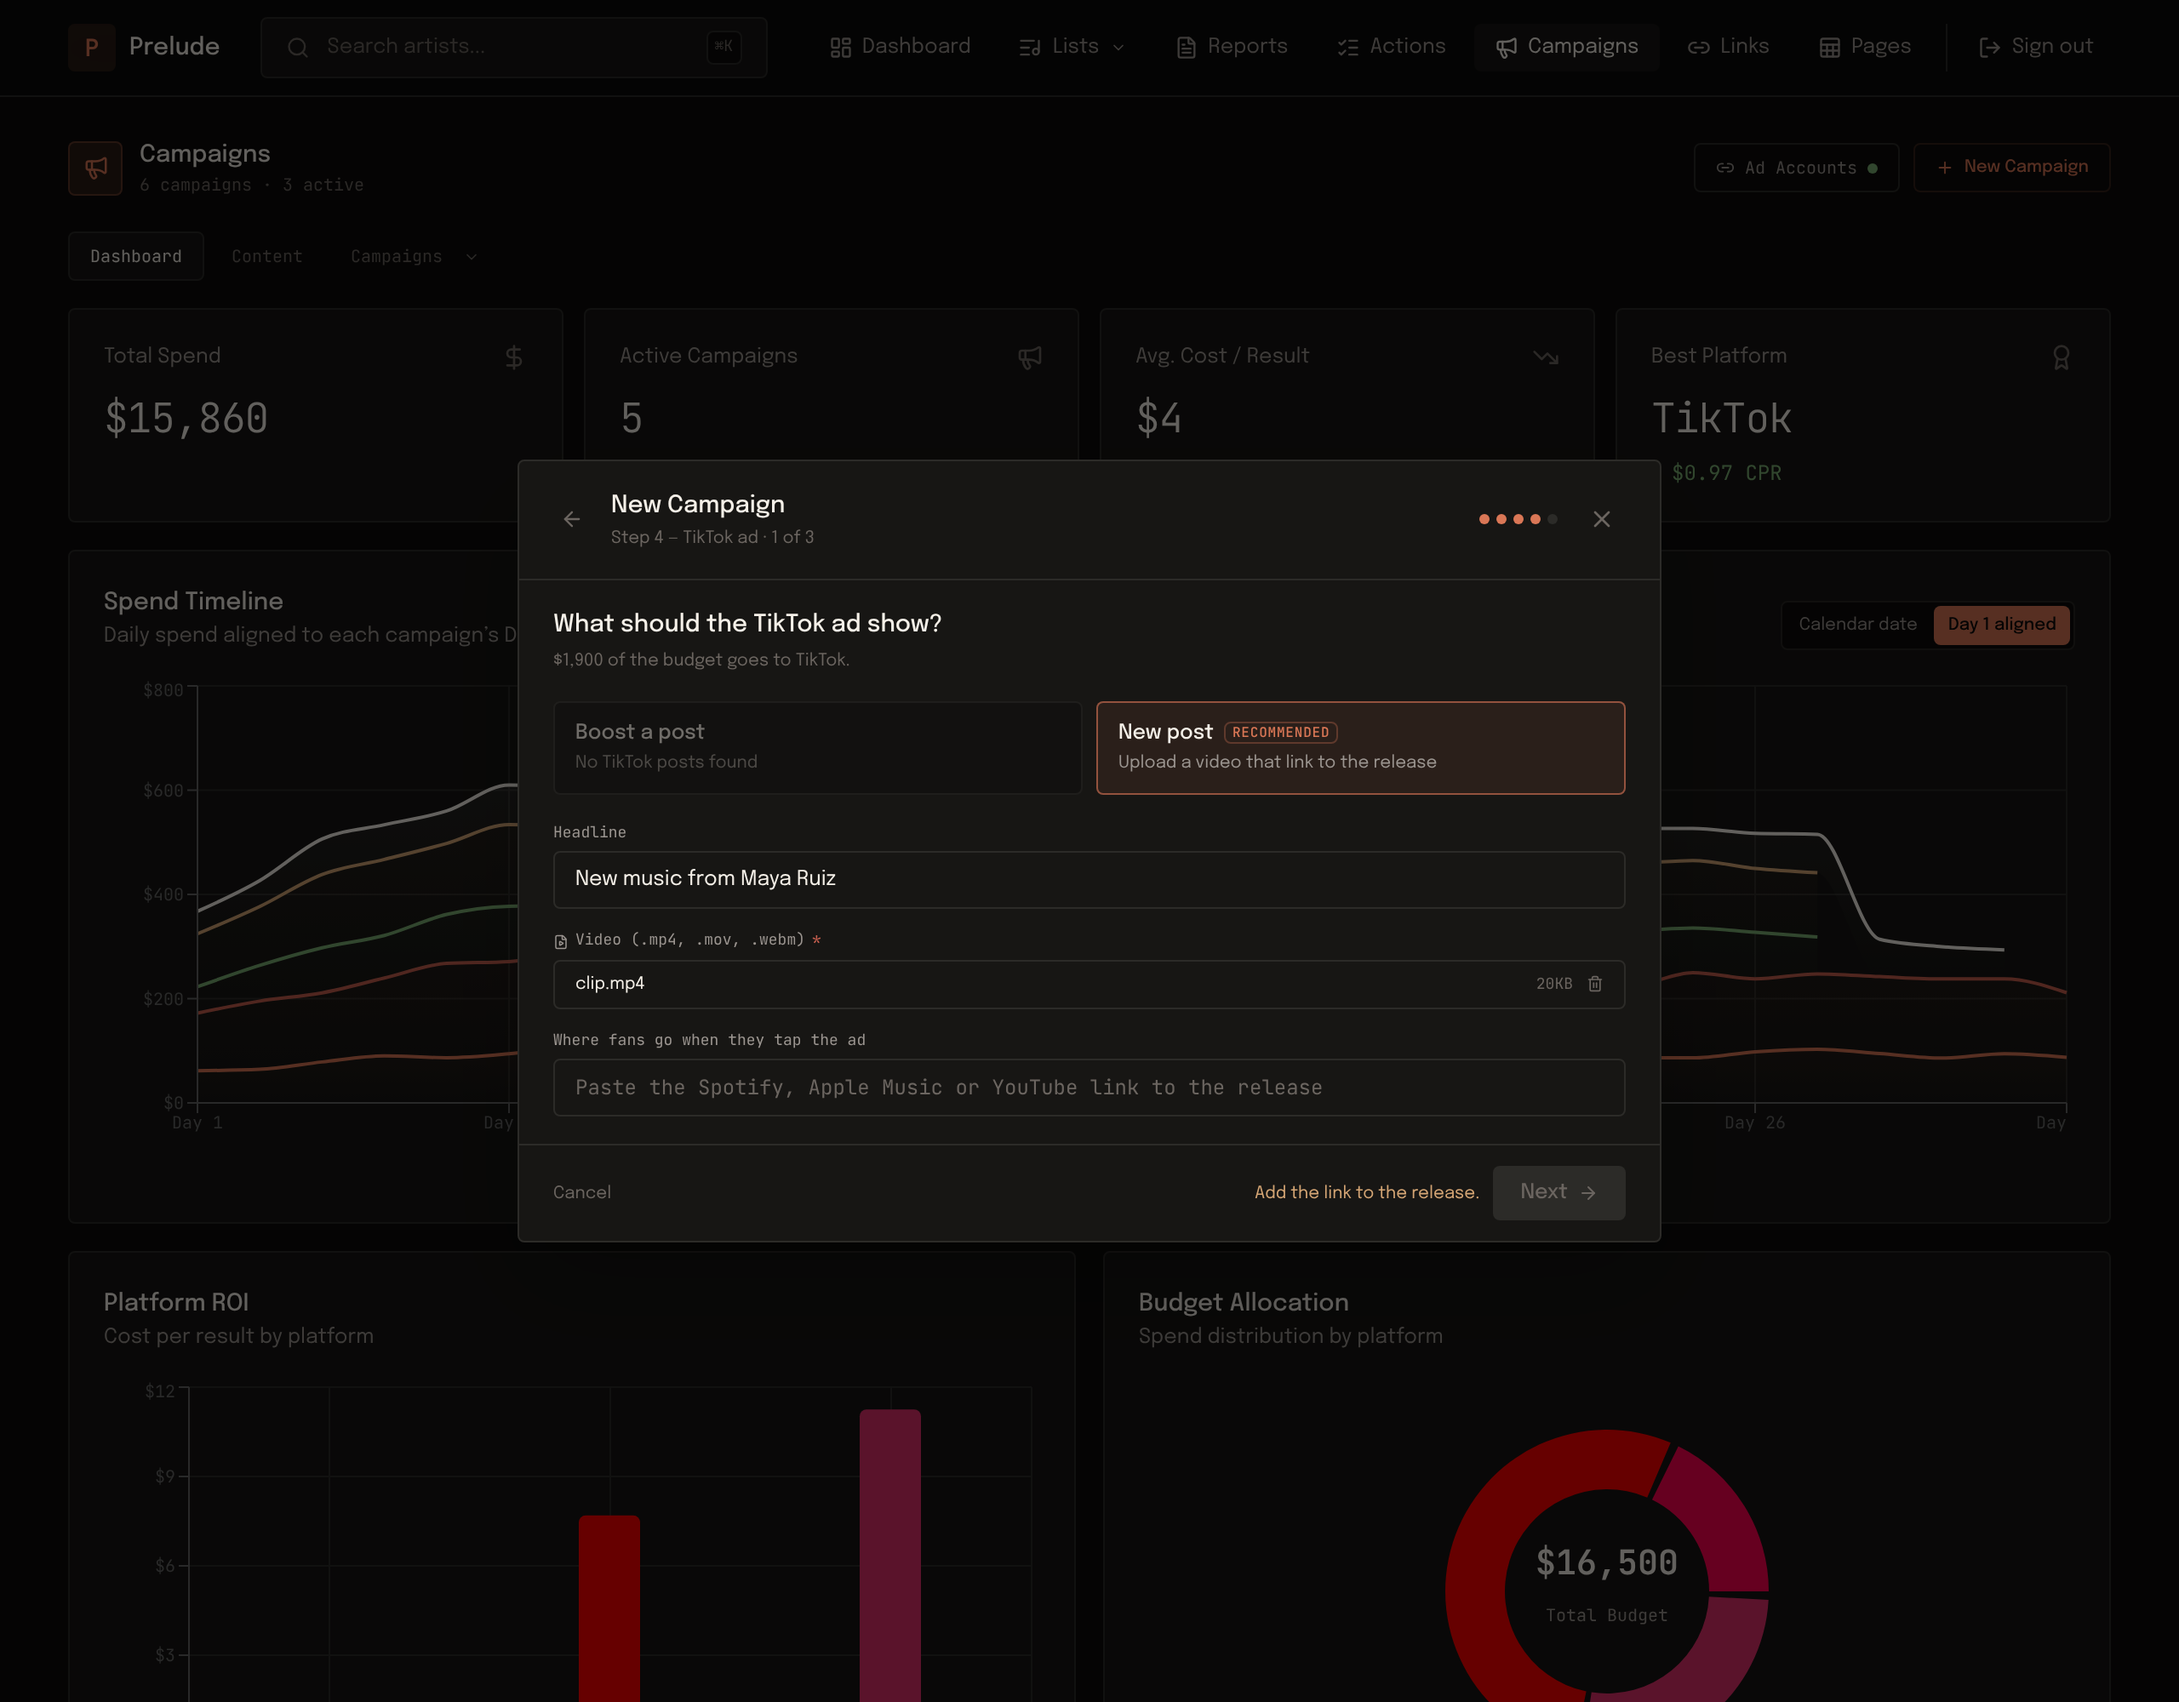
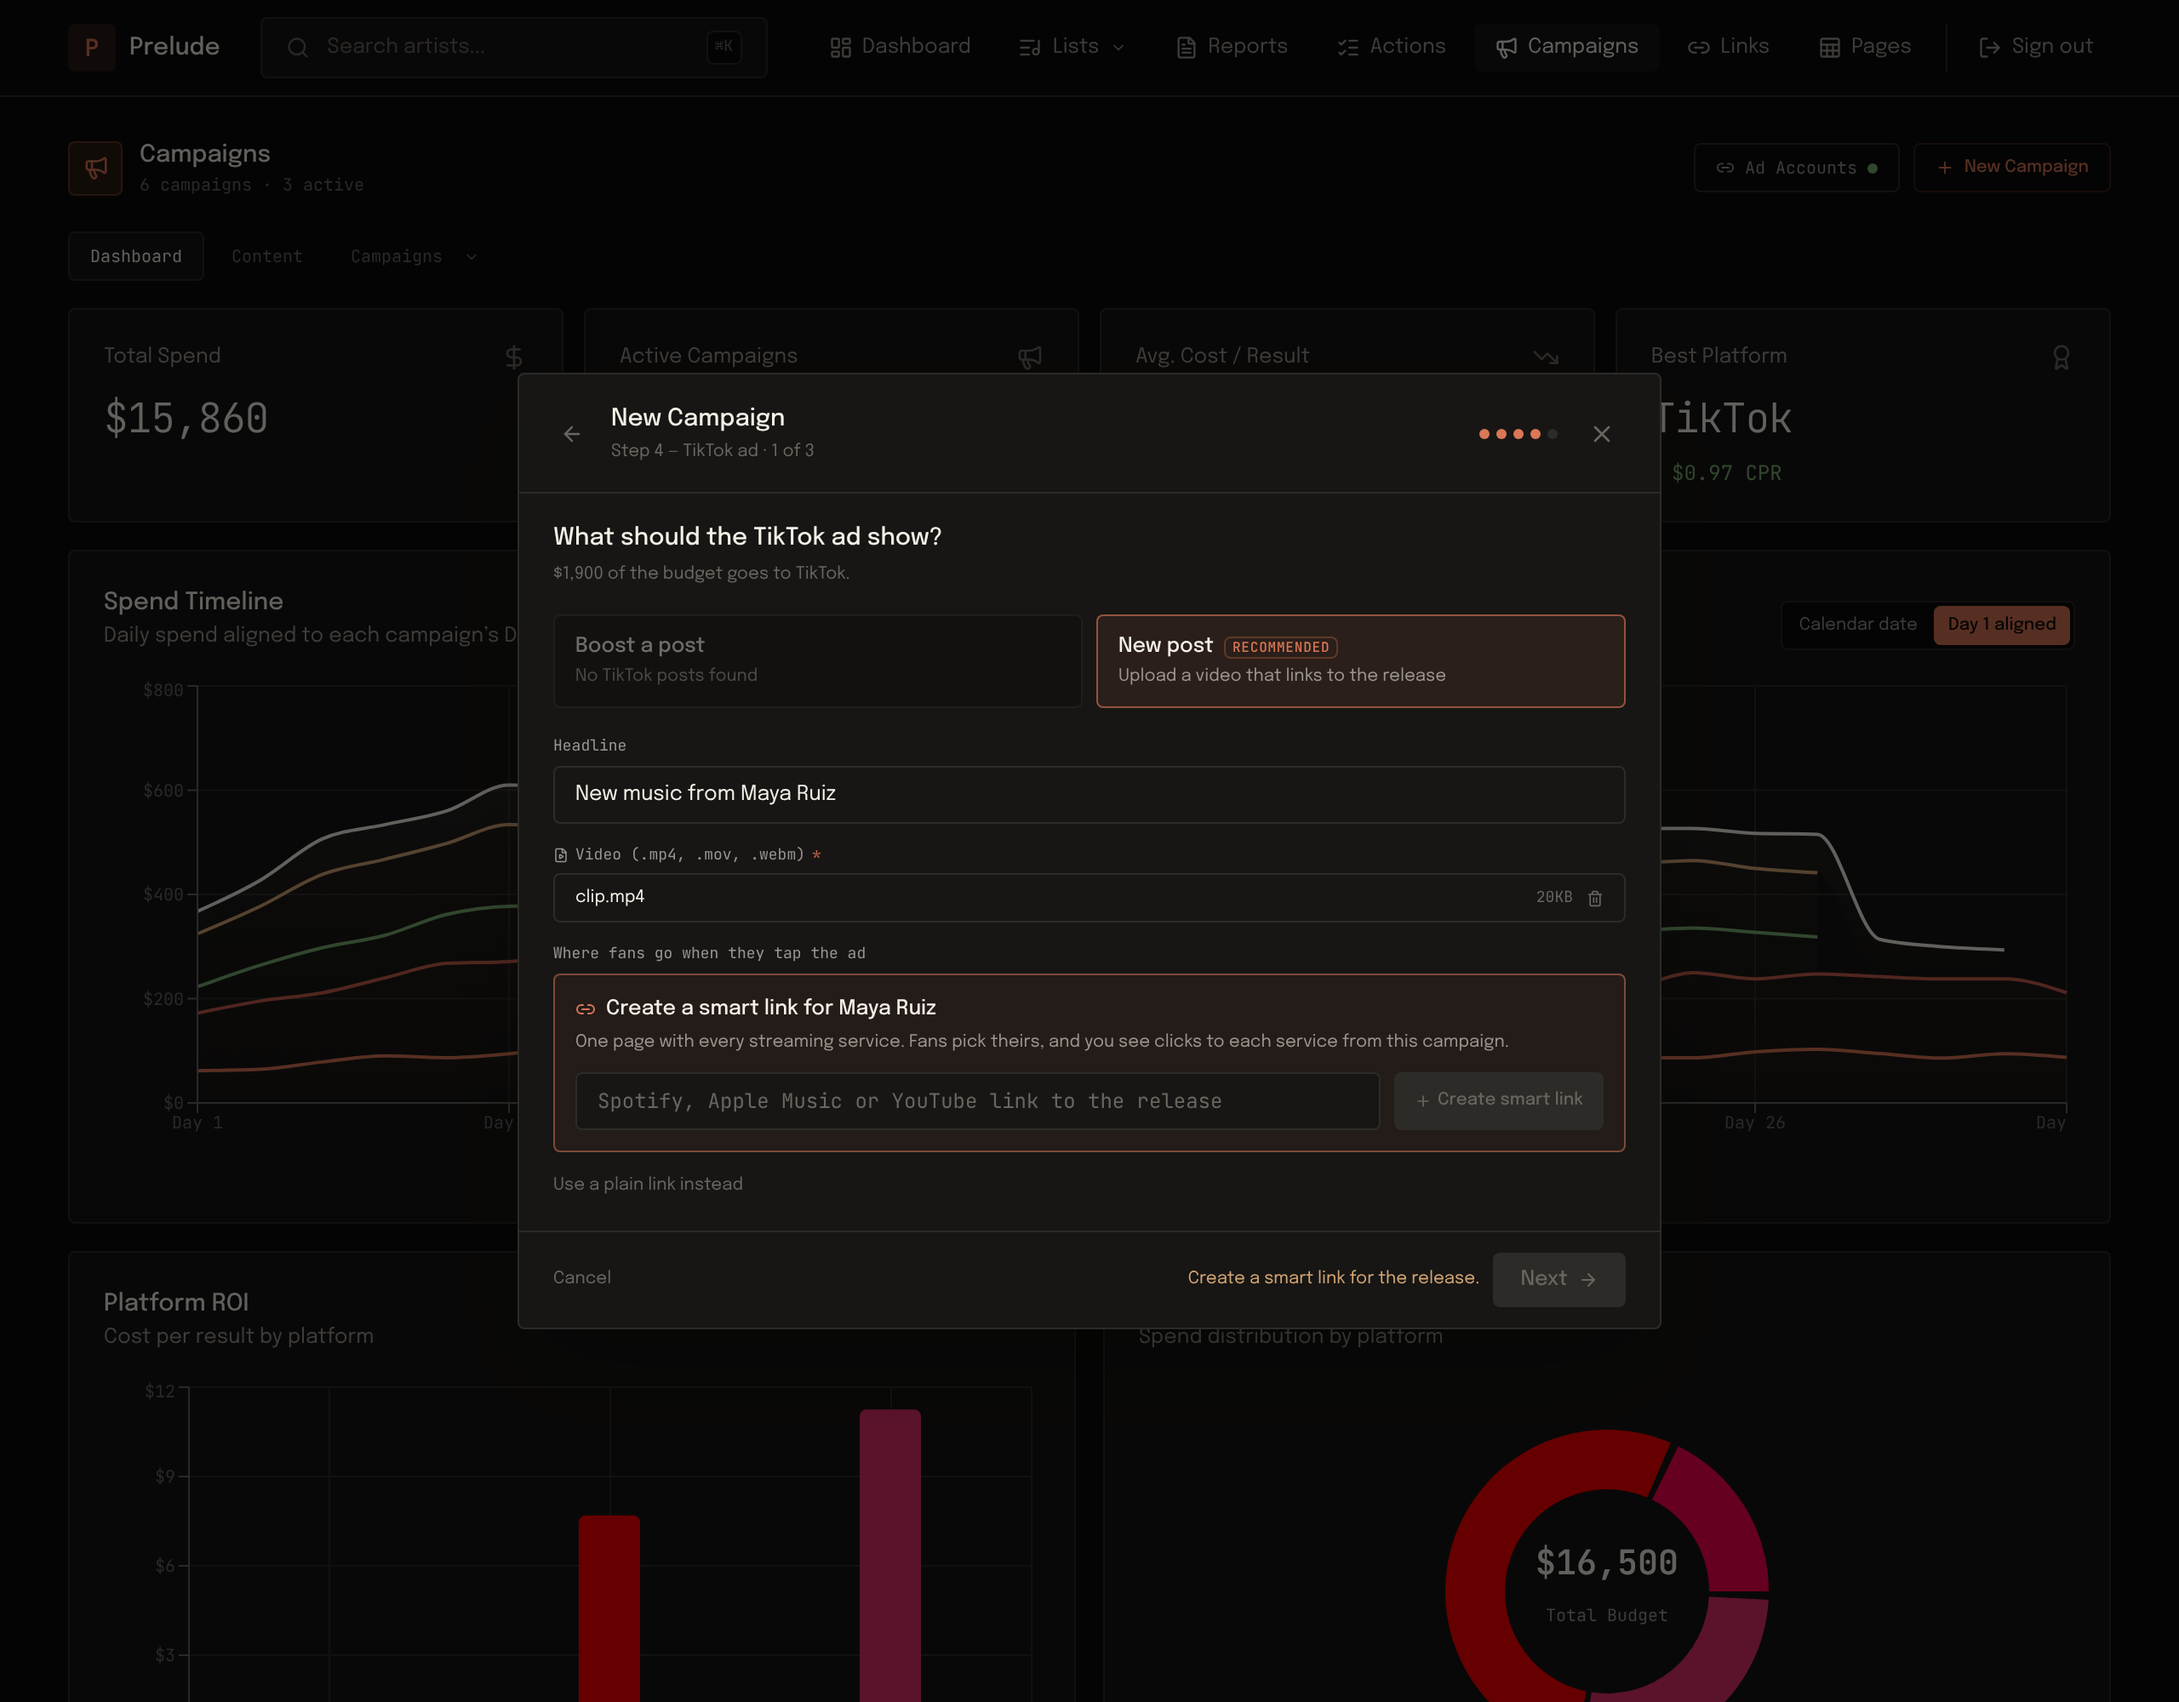
Campaigns: push smart link creation when the artist has none
A new post with no smart link for the artist shows a 'Create a smart
link' card (release link + Create smart link). A plain link is a small
'Use a plain link instead' fallback. Artists with links can also create
a new one from Change.

Claude-Session: https://claude.ai/code/session_01RkS9ofbJtqGxQ15nbiFAmX

diff --git a/src/components/ads/GuidedConfirm.jsx b/src/components/ads/GuidedConfirm.jsx
@@ -1,7 +1,7 @@
 import { useState } from 'react';
 import {
   Music, Eye, Heart, AlertTriangle, Info, Calendar, MapPin, Users,
-  Link2, Check, FileVideo, Sparkles, Image as ImageIcon, Pencil,
+  Link2, Loader2, Plus, Check, FileVideo, Sparkles, Image as ImageIcon, Pencil,
 } from 'lucide-react';
 import AdImagesField from './AdImagesField';
 import { FileUploadField, MetaRunAsPicker } from './DirectiveBuilder';
@@ -38,29 +38,69 @@ function StepTitle({ title, hint }) {
 }
 
 // ─── Where a new post sends fans ───
-// The artist's smart link is picked automatically. A pasted release link is used right away and
-// turned into a smart link in the background, so the user never has to know what one is up front.
+// The artist's smart link is filled in automatically. Without one, creating a smart link is the
+// main action (it gives the campaign per-service click data); a plain link is a small fallback.
 
 const isUrl = (v) => /^https?:\/\/\S+\.\S+/.test(v.trim());
+
+function CreateSmartLink({ artist, onCreated, prominent }) {
+  const [sourceUrl, setSourceUrl] = useState('');
+  const [busy, setBusy] = useState(false);
+  const [error, setError] = useState(null);
+
+  const create = async () => {
+    setBusy(true);
+    setError(null);
+    try {
+      const { link } = await createSmartLink({ sourceUrl: sourceUrl.trim(), artistSlug: artist?.slug, artistName: artist?.name, imageUrl: artist?.imageUrl || undefined });
+      onCreated(link);
+    } catch (e) {
+      setError(e.message || 'Could not create the smart link.');
+    } finally {
+      setBusy(false);
+    }
+  };
+
+  return (
+    <div className={`rounded-lg border p-3 ${prominent ? 'border-[#DA7756]/50 bg-[#DA7756]/[0.07]' : 'border-[#2C2B28] bg-[#0D0C0B]'}`}>
+      <p className="flex items-center gap-1.5 text-xs text-[#F5F0E8] font-medium">
+        <Link2 size={12} className="text-[#DA7756]" />Create a smart link{artist?.name ? ` for ${artist.name}` : ''}
+      </p>
+      <p className="text-[10px] text-[#9B9590] mt-1 mb-2.5">
+        One page with every streaming service. Fans pick theirs, and you see clicks to each service from this campaign.
+      </p>
+      <div className="flex gap-2">
+        <input
+          value={sourceUrl}
+          onChange={e => setSourceUrl(e.target.value)}
+          onKeyDown={e => { if (e.key === 'Enter' && isUrl(sourceUrl) && !busy) create(); }}
+          placeholder="Spotify, Apple Music or YouTube link to the release"
+          className={`${inputCls} font-mono`}
+        />
+        <button
+          onClick={create}
+          disabled={busy || !isUrl(sourceUrl)}
+          className="flex items-center gap-1 px-3 py-2 text-[10px] font-medium bg-[#DA7756] text-[#0D0C0B] rounded hover:bg-[#DA7756]/90 disabled:bg-[#2C2B28] disabled:text-[#6B6560] cursor-pointer disabled:cursor-default shrink-0"
+        >
+          {busy ? <Loader2 size={10} className="animate-spin" /> : <Plus size={10} />}{busy ? 'Creating…' : 'Create smart link'}
+        </button>
+      </div>
+      {error && <p className="text-[9px] text-[#C75F4F] mt-1.5">{error}</p>}
+    </div>
+  );
+}
 
 function DestinationField({ artist, smartLinks, destination, onDestination, onLinkCreated }) {
   const links = smartLinks || [];
   const ownLinks = links.filter(l => l.artistSlug === artist?.slug);
   const current = links.find(l => l.url === destination);
   const [editing, setEditing] = useState(false);
-  const [pasted, setPasted] = useState('');
+  const [plain, setPlain] = useState(false);
+  const [creating, setCreating] = useState(false);
   const open = editing || !destination;
 
-  const applyPasted = (value) => {
-    const url = value.trim();
-    if (!isUrl(url)) return;
-    onDestination(url);
-    setPasted('');
-    setEditing(false);
-    createSmartLink({ sourceUrl: url, artistSlug: artist?.slug, artistName: artist?.name, imageUrl: artist?.imageUrl || undefined })
-      .then(({ link }) => link && onLinkCreated(link, url))
-      .catch(() => {});
-  };
+  const choose = (url) => { onDestination(url); setEditing(false); setPlain(false); setCreating(false); };
+  const created = (link) => { onLinkCreated(link); choose(link.url); };
 
   return (
     <div>
@@ -70,26 +110,40 @@ function DestinationField({ artist, smartLinks, destination, onDestination, onLi
           <Link2 size={12} className="text-[#DA7756] shrink-0" />
           <div className="flex-1 min-w-0">
             <p className="text-xs text-[#F5F0E8] truncate">{current ? current.title : destination}</p>
-            <p className="text-[9px] text-[#6B6560] truncate">{current ? 'Every streaming service on one page' : 'Pasted link'}</p>
+            <p className="text-[9px] text-[#6B6560] truncate">{current ? 'Smart link · every streaming service on one page' : "Plain link · clicks per streaming service aren't tracked"}</p>
           </div>
           <button onClick={() => setEditing(true)} className="text-[10px] text-[#DA7756] hover:underline cursor-pointer shrink-0">Change</button>
+        </div>
+      ) : plain ? (
+        <div className="space-y-1.5">
+          <input
+            defaultValue={current ? '' : destination}
+            onBlur={e => { if (isUrl(e.target.value)) choose(e.target.value.trim()); }}
+            onKeyDown={e => { if (e.key === 'Enter' && isUrl(e.target.value)) choose(e.target.value.trim()); }}
+            placeholder="https://…"
+            className={`${inputCls} font-mono`}
+            autoFocus
+          />
+          <button onClick={() => setPlain(false)} className="text-[10px] text-[#DA7756] hover:underline cursor-pointer">Create a smart link instead</button>
         </div>
       ) : (
         <div className="space-y-1.5">
           {ownLinks.map(l => (
-            <button key={l.slug} onClick={() => { onDestination(l.url); setEditing(false); }} className={`${choiceCls(l.url === destination)} w-full flex items-center gap-2 py-2`}>
+            <button key={l.slug} onClick={() => choose(l.url)} className={`${choiceCls(l.url === destination)} w-full flex items-center gap-2 py-2`}>
               <Link2 size={12} className="text-[#DA7756] shrink-0" />
               <span className="text-xs text-[#F5F0E8] truncate">{l.title}</span>
+              <span className="text-[9px] text-[#6B6560] ml-auto shrink-0">Smart link</span>
             </button>
           ))}
-          <input
-            value={pasted}
-            onChange={e => { setPasted(e.target.value); if (isUrl(e.target.value) && e.nativeEvent.inputType === 'insertFromPaste') applyPasted(e.target.value); }}
-            onBlur={() => applyPasted(pasted)}
-            onKeyDown={e => { if (e.key === 'Enter') applyPasted(pasted); }}
-            placeholder={ownLinks.length ? 'Or paste a link to a different release' : 'Paste the Spotify, Apple Music or YouTube link to the release'}
-            className={`${inputCls} font-mono`}
-          />
+          {!ownLinks.length || creating ? (
+            <CreateSmartLink artist={artist} onCreated={created} prominent={!ownLinks.length} />
+          ) : (
+            <button onClick={() => setCreating(true)} className={`${choiceCls(false)} w-full flex items-center gap-2 py-2`}>
+              <Plus size={12} className="text-[#DA7756] shrink-0" />
+              <span className="text-xs text-[#F5F0E8]">Create a new smart link</span>
+            </button>
+          )}
+          <button onClick={() => setPlain(true)} className="text-[10px] text-[#6B6560] hover:text-[#9B9590] cursor-pointer">Use a plain link instead</button>
         </div>
       )}
     </div>

diff --git a/src/components/ads/CampaignWizard.jsx b/src/components/ads/CampaignWizard.jsx
@@ -313,11 +313,7 @@ export default function CampaignWizard({ isOpen, onClose, onSelect, onLaunch, on
 
   const setPlanMode = (platform, mode) => updatePlanCampaign(platform, c => ({ ...c, mode }));
   const setPlanDraft = (platform, patch) => updatePlanCampaign(platform, c => ({ ...c, draft: { ...c.draft, ...patch } }));
-  // A pasted release link becomes a smart link in the background; the pasted URL is used until it's ready
-  const handleLinkCreated = (link, fromUrl) => {
-    setSmartLinks(prev => [link, ...(prev || [])]);
-    setDestination(d => (d === fromUrl ? link.url : d));
-  };
+  const handleLinkCreated = (link) => setSmartLinks(prev => [link, ...(prev || [])]);
 
   const nextFromContent = () => {
     if (returnToConfirm || contentIndex >= planCampaigns.length - 1) {

diff --git a/src/utils/assistedCampaign.js b/src/utils/assistedCampaign.js
@@ -192,7 +192,7 @@ export function campaignIssue(c, destination) {
   } else if (!c.draft.videoFile) {
     return 'Add a video.';
   }
-  if (!destination) return 'Add the link to the release.';
+  if (!destination) return 'Create a smart link for the release.';
   return null;
 }
 
